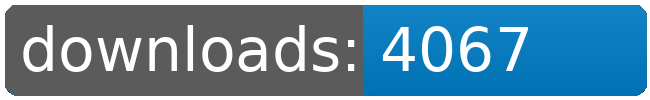
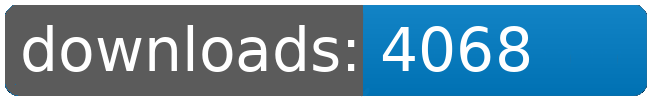
dl log written

Changed region(s): [[0.7692, 0.24, 0.8308, 0.72]]

diff --git a/README.md b/README.md
@@ -98,8 +98,8 @@
 		<td>4025</td>
 		<td>4044</td>
 		<td>4065</td>
-		<td>4067</td>
-		<td>+ 2</td>
+		<td>4068</td>
+		<td>+ 3</td>
 	</tr>
 	<tr>
 		<td></td>
@@ -109,8 +109,8 @@
 		<td></td>
 		<td></td>
 		<td></td>
-		<td>35287</td>
-		<td>24</td>
+		<td>35288</td>
+		<td>25</td>
 	</tr>
 </table>
 </sub></sup>
@@ -212,8 +212,8 @@
 		<td>4025</td>
 		<td>4044</td>
 		<td>4065</td>
-		<td>4067</td>
-		<td>+ 2</td>
+		<td>4068</td>
+		<td>+ 3</td>
 	</tr>
 	<tr>
 		<td></td>
@@ -223,8 +223,8 @@
 		<td></td>
 		<td></td>
 		<td></td>
-		<td>35287</td>
-		<td>24</td>
+		<td>35288</td>
+		<td>25</td>
 	</tr>
 </table>
 </sub></sup>
@@ -232,7 +232,6 @@
 <table>
 	<tr>
 		<td> </td>
-		<td>2026-02-26</td>
 		<td>2026-02-27</td>
 		<td>2026-02-28</td>
 		<td>2026-03-01</td>
@@ -241,10 +240,10 @@
 		<td>2026-03-04</td>
 		<td>2026-03-05</td>
 		<td>2026-03-06</td>
+		<td>2026-03-07</td>
 	</tr>
 	<tr>
 		<td>page views</td>
-		<td>15</td>
 		<td>10</td>
 		<td>33</td>
 		<td>13</td>
@@ -253,10 +252,10 @@
 		<td>13</td>
 		<td>8</td>
 		<td>81</td>
+		<td>13</td>
 	</tr>
 	<tr>
 		<td>unique visitors</td>
-		<td>8</td>
 		<td>8</td>
 		<td>8</td>
 		<td>8</td>
@@ -265,6 +264,7 @@
 		<td>4</td>
 		<td>3</td>
 		<td>6</td>
+		<td>4</td>
 	</tr>
 </table>
 <br>
@@ -278,8 +278,8 @@
 	</tr>
 	<tr>
 		<td>2025-10-13</td>
-		<td>3592</td>
-		<td>1053</td>
+		<td>3605</td>
+		<td>1057</td>
 		<td>169</td>
 		<td>45</td>
 	</tr>
@@ -292,8 +292,8 @@
 	</tr>
 	<tr>
 		<td>146</td>
-		<td>24.60</td>
-		<td>7.21</td>
+		<td>24.69</td>
+		<td>7.24</td>
 		<td></td>
 		<td></td>
 	</tr>
